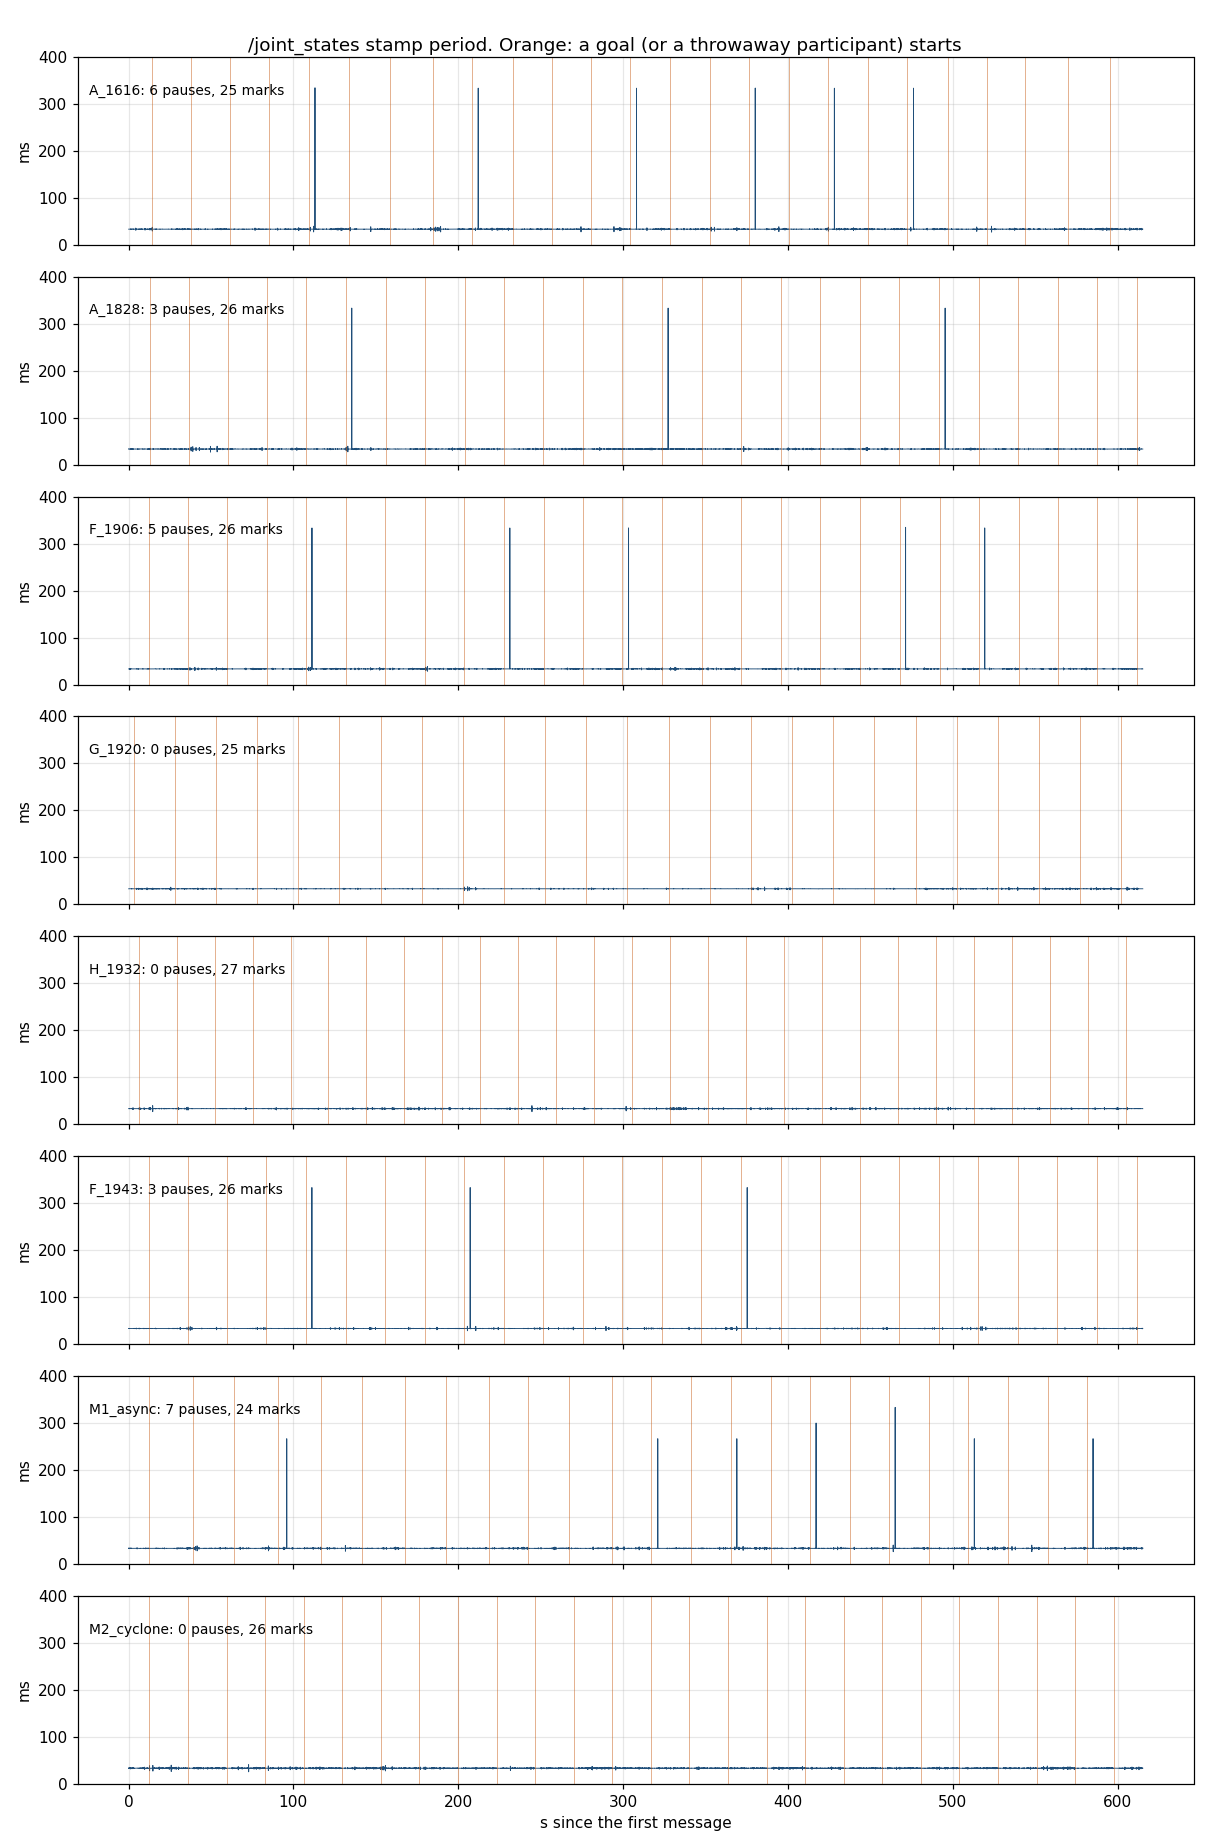
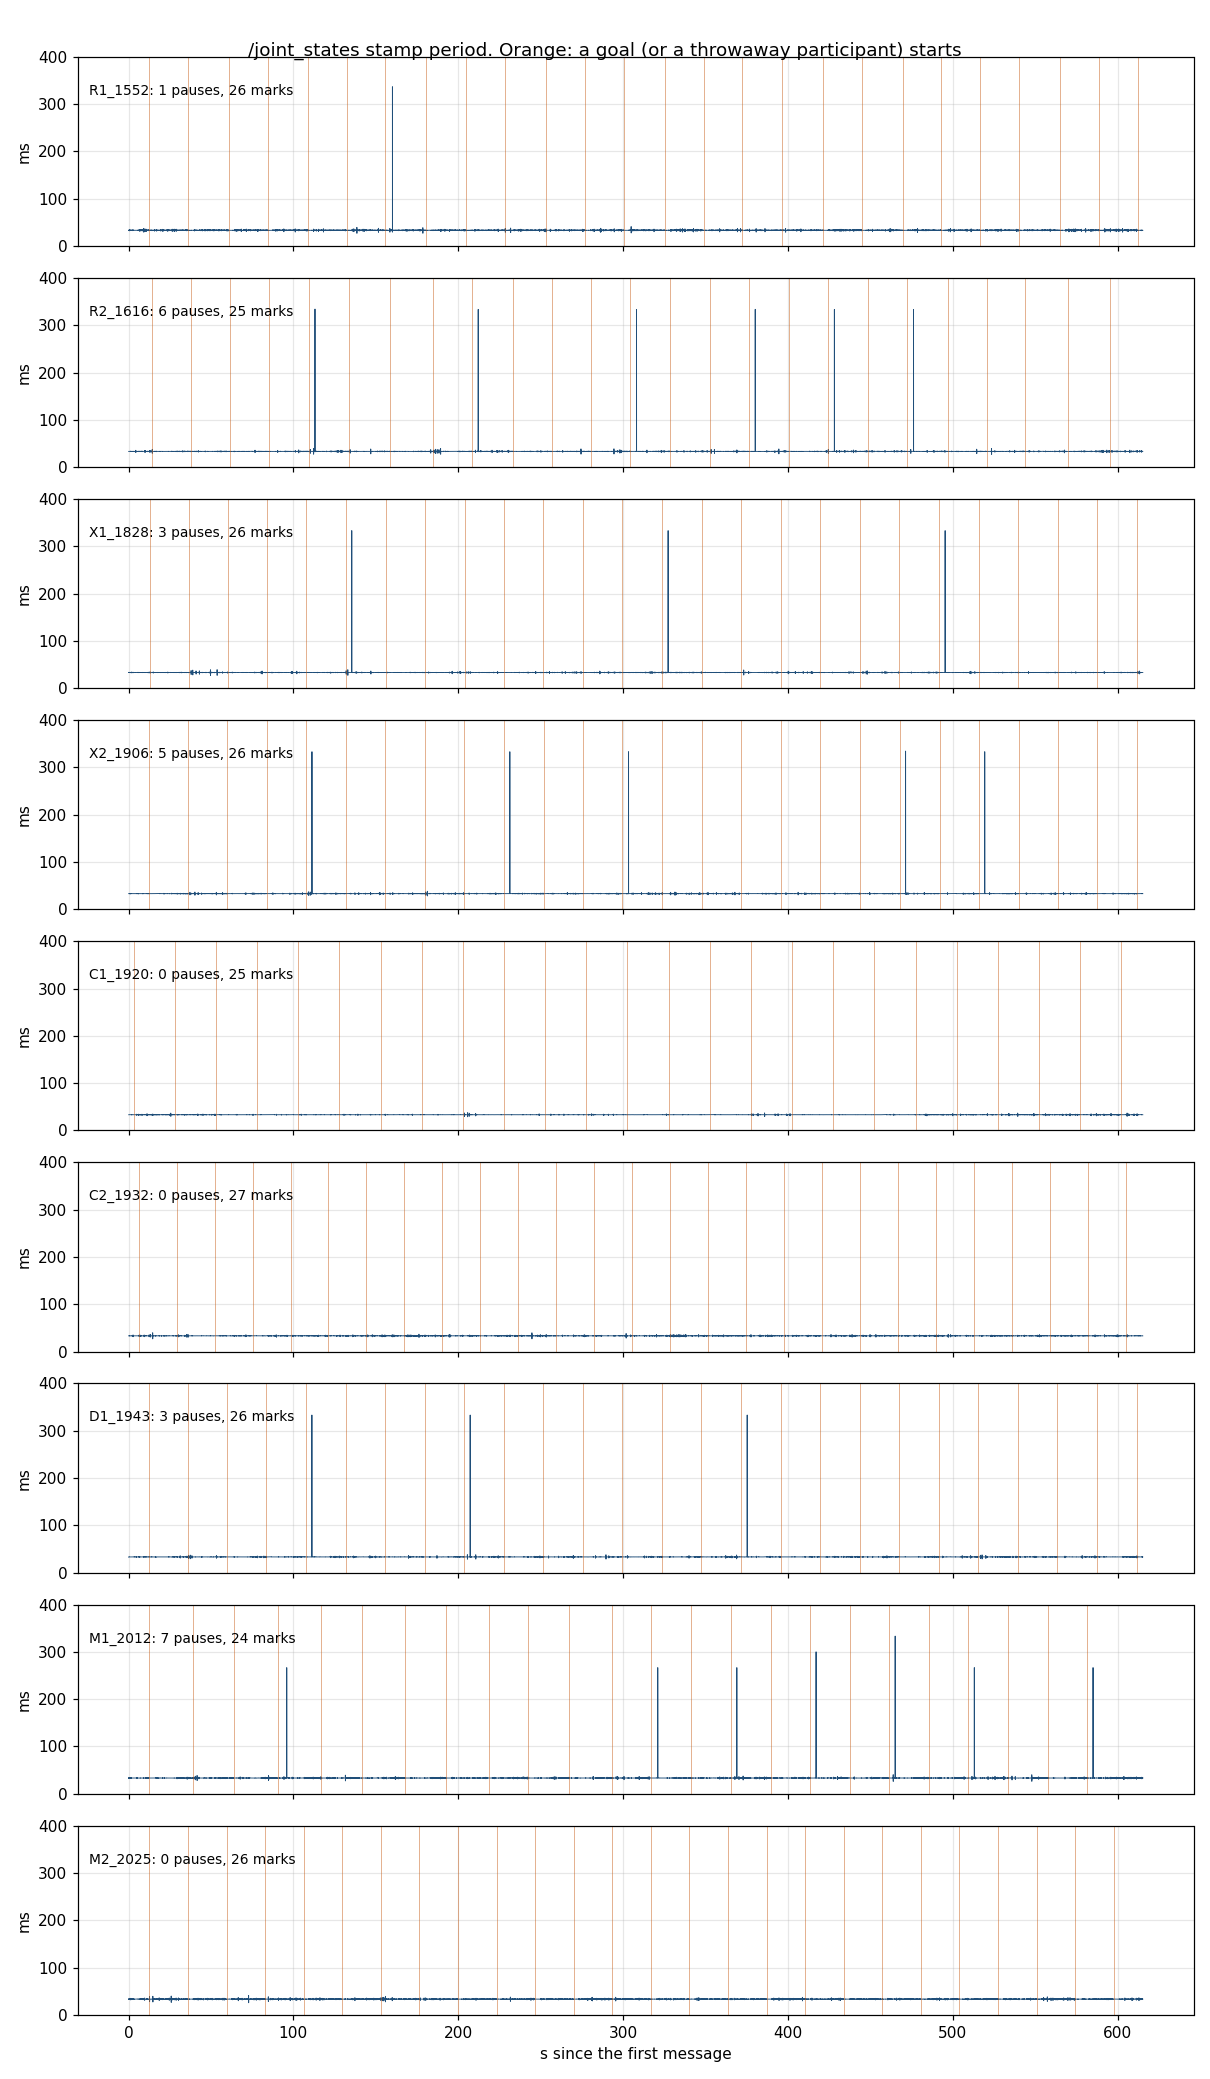
docs(rt_profile): name the runs by the question they answer, figure with all nine (#124)

diff --git a/docs/03_verification/rt_profile/pauses.md b/docs/03_verification/rt_profile/pauses.md
@@ -17,10 +17,10 @@ process per goal). The 10 messages are not late, they are never published: the b
 |---|---|
 | The loop (`write()` cadence) during a pause | runs: the next cycle stamp is exactly 10 periods later, and the controller_manager threads run their usual 0.2 ms every 33 ms (thread sampler) |
 | CPU, memory, I/O (vmstat), wall clock (reference clock at 10 ms) | clean in every run, no thread waits for CPU |
-| Wi-Fi, DDS over the network | not the cause: same pauses with `ROS_AUTOMATIC_DISCOVERY_RANGE=LOCALHOST` (run L) |
-| The serial link and the arm | not the cause: same pauses with `backend:=fake` (run F) |
-| Discovery of a new DDS participant alone | not the cause: 25 participants came and went, no goal, 0 pauses (run G) |
-| Goals from one persistent node, no new endpoints (run H) | **0 pauses in 27 goals**: the trigger is the new action client of each CLI process, not the goal itself |
+| Wi-Fi, DDS over the network | not the cause: same pauses with `ROS_AUTOMATIC_DISCOVERY_RANGE=LOCALHOST` (run X1) |
+| The serial link and the arm | not the cause: same pauses with `backend:=fake` (run X2) |
+| Discovery of a new DDS participant alone | not the cause: 25 participants came and went, no goal, 0 pauses (run C1) |
+| Goals from one persistent node, no new endpoints (run C2) | **0 pauses in 27 goals**: the trigger is the new action client of each CLI process, not the goal itself |
 | Fast DDS asynchronous publishing (run M1) | does not help: 7 pauses in 24 goals, the writer blocks before the send |
 | CycloneDDS instead of Fast DDS (run M2) | **0 pauses in 26 goals**, same CLI goals: the block is inside Fast DDS |
 
@@ -32,25 +32,28 @@ Same recipe in every run: driver up, `rt_record.py` keeps every `/joint_states` 
 every ~17 ms. 10 min each, then a goal or a participant every ~23 s. Pause = cycle stamp gap
 above 100 ms.
 
+Runs are named by the question they answer: R reproduces the pause, X excludes a cause, C finds the
+trigger, D measures the damage to the system, M tries another middleware.
+
 | Run | Backend | DDS | What arrives every 23 s | Goals | Pauses | Pause length |
 |---|---|---|---|---|---|---|
-| A1 15:52 | serial, arm | open (Wi-Fi) | T2 goal from `ros2 action send_goal` | 25 | 1 | 337 ms |
-| A2 16:16 | serial, arm | open | same | 25 | 6 | 333 to 334 ms |
-| L 18:28 | serial, arm | localhost | same | 26 | 3 | 333 ms |
-| F 19:06 | fake | localhost | same | 26 | 5 | 333 to 335 ms |
-| G 19:20 | fake | localhost | a throwaway participant (`ros2 node list`), no goal | 0 | 0 | |
-| H 19:32 | fake | localhost | T2 goal from one persistent node (`goals_node.py`) | 27 | 0 | |
-| F2 19:43 | fake | localhost | same as F, `/dynamic_joint_states` recorded too | 26 | 3 | 333 ms |
-| M1 20:12 | fake | localhost, Fast DDS `ASYNCHRONOUS` publish mode | same as F | 24 | 7 | 267 to 333 ms |
-| M2 20:25 | fake | localhost, `rmw_cyclonedds_cpp` | same as F | 26 | 0 | |
+| R1 15:52 | serial, arm | open (Wi-Fi) | T2 goal from `ros2 action send_goal` | 25 | 1 | 337 ms |
+| R2 16:16 | serial, arm | open | same | 25 | 6 | 333 to 334 ms |
+| X1 18:28 | serial, arm | localhost | same | 26 | 3 | 333 ms |
+| X2 19:06 | fake | localhost | same | 26 | 5 | 333 to 335 ms |
+| C1 19:20 | fake | localhost | a throwaway participant (`ros2 node list`), no goal | 0 | 0 | |
+| C2 19:32 | fake | localhost | T2 goal from one persistent node (`goals_node.py`) | 27 | 0 | |
+| D1 19:43 | fake | localhost | same as X2, `/dynamic_joint_states` recorded too | 26 | 3 | 333 ms |
+| M1 20:12 | fake | localhost, Fast DDS `ASYNCHRONOUS` publish mode | same as X2 | 24 | 7 | 267 to 333 ms |
+| M2 20:25 | fake | localhost, `rmw_cyclonedds_cpp` | same as X2 | 26 | 0 | |
 
 ![Header period of /joint_states against time, one panel per run](figures/pauses_runs.png)
 
-Every pause of A2, L, F, F2 and M1 sits 3.0 to 3.4 s after a `send_goal` command starts
-(orange marks), never elsewhere, and the one pause of A1 sits 4.1 s after one (open Wi-Fi, a
+Every pause of R2, X1, X2, D1 and M1 sits 3.0 to 3.4 s after a `send_goal` command starts
+(orange marks), never elsewhere, and the one pause of R1 sits 4.1 s after one (open Wi-Fi, a
 slower CLI start). The CLI takes about 2 s to start, create its action client and send the goal,
 so the pause falls within a second of the goal being accepted. Only 1 to 7 goals in 24 to 26
-trigger it (table above). (F2 also shows two arrival-only gaps in its first 20 s, stamps intact:
+trigger it (table above). (D1 also shows two arrival-only gaps in its first 20 s, stamps intact:
 messages delivered late while the recorders were still starting, not the pause.)
 
 ## What the pause is
@@ -74,16 +77,16 @@ are idle. The time goes inside the `publish()` call of the broadcaster's thread.
 
 ## What triggers it
 
-Run G rules out participant discovery by itself. Run F rules out the serial link. What
-remains, common to A1, A2, L and F, is the goal: a new action client (5 endpoints: goal,
+Run C1 rules out participant discovery by itself. Run X2 rules out the serial link. What
+remains, common to R1, R2, X1 and X2, is the goal: a new action client (5 endpoints: goal,
 cancel and result services, feedback and status topics) matched by the action server of
 `arm_controller`, and the goal accepted and executed, both within the same second.
-Run H separates the two: 27 goals from one node whose action client exists from the start,
+Run C2 separates the two: 27 goals from one node whose action client exists from the start,
 0 pauses. **The trigger is the new action client**: when a `ros2 action send_goal` process
 appears, the action server of `arm_controller` matches its five endpoints, and while Fast DDS
 does that matching inside the driver process a `publish()` of the broadcaster can wait on it
-for about 300 ms. A throwaway participant without action endpoints (run G) does not do it, and
-the 5 endpoints of the CLI's own node (rosout, parameters) are the same in G, so what costs
+for about 300 ms. A throwaway participant without action endpoints (run C1) does not do it, and
+the 5 endpoints of the CLI's own node (rosout, parameters) are the same in C1, so what costs
 is the matching against the action server, not any discovery.
 
 Why only 1 to 7 goals in 24 to 26: the match happens once per new client, and only a `publish()`
@@ -99,10 +102,10 @@ same CLI goals on `rmw_cyclonedds_cpp`: **0 pauses, max stamp period 40.9 ms in 
 
 - **`arm_controller` is not affected.** The JTC checks its path tolerance on the hardware
   state it reads in the same cycle, not on `/joint_states`. The 10 goals that carried a pause
-  on the arm (A1 1, A2 6, L 3) ended `SUCCEEDED`, and no goal of any run was aborted.
+  on the arm (R1 1, R2 6, X1 3) ended `SUCCEEDED`, and no goal of any run was aborted.
 - **The supervisor can be.** It feeds its fault watchdog from `/dynamic_joint_states` and halts
   with `FAULT_DATA_LOST` after 200 ms without a usable message. `/dynamic_joint_states` is
-  published by the same broadcaster through its own `RealtimePublisher`. Run F2 recorded both topics: **the three
+  published by the same broadcaster through its own `RealtimePublisher`. Run D1 recorded both topics: **the three
   pauses of `/joint_states` are also pauses of `/dynamic_joint_states`**, same instants, 343 to
   357 ms without a message, 333 ms between stamps. A supervisor in `MONITORING` at that moment
   halts the arm with `FAULT_DATA_LOST` (200 ms), a false halt: safe, but it stops a run.
@@ -134,7 +137,7 @@ same CLI goals on `rmw_cyclonedds_cpp`: **0 pauses, max stamp period 40.9 ms in 
 
 - The thread sampler reads `/proc` every ~17 ms: it sees states and run time, not stack
   traces. Where inside Fast DDS `publish()` waits is inferred from what is excluded, not seen.
-- Only T2 (joints 1 and 2, 5 deg/s) was used. The pause is not tied to the motion (run F has no
+- Only T2 (joints 1 and 2, 5 deg/s) was used. The pause is not tied to the motion (run X2 has no
   motion), so other trajectories were not run.
 - One Jetson, Fast DDS 2.14.6, rmw_fastrtps_cpp 8.4.4, realtime_tools 3.13.0,
   joint_state_broadcaster 4.42.1.
@@ -145,8 +148,8 @@ same CLI goals on `rmw_cyclonedds_cpp`: **0 pauses, max stamp period 40.9 ms in 
 |---|---|
 | `tools/thread_sampler.py` | per-thread state, wchan and run time of one process from `/proc`, every ~17 ms |
 | `tools/pauses_124.py` | finds the pauses in the run folders, prints what happened around each one, draws the figure (`--figure`) |
-| `tools/bench/run124.sh` | the runs: A (goals through the CLI), G (throwaway participants, no goal), H (goals from one node) |
-| `tools/bench/goals_node.py` | the persistent action client of run H |
+| `tools/bench/run124.sh` | the runs: variant A (goals through the CLI: R1, R2, X1, X2, D1, M1, M2), G (throwaway participants, no goal: C1), H (goals from one node: C2) |
+| `tools/bench/goals_node.py` | the persistent action client of run C2 |
 
 `rt_record.py` is the recorder of #39. The 10 ms reference clock and the `/dynamic_joint_states`
-recorder of run F2 were one-off checks and are not kept here.
+recorder of run D1 were one-off checks and are not kept here.
